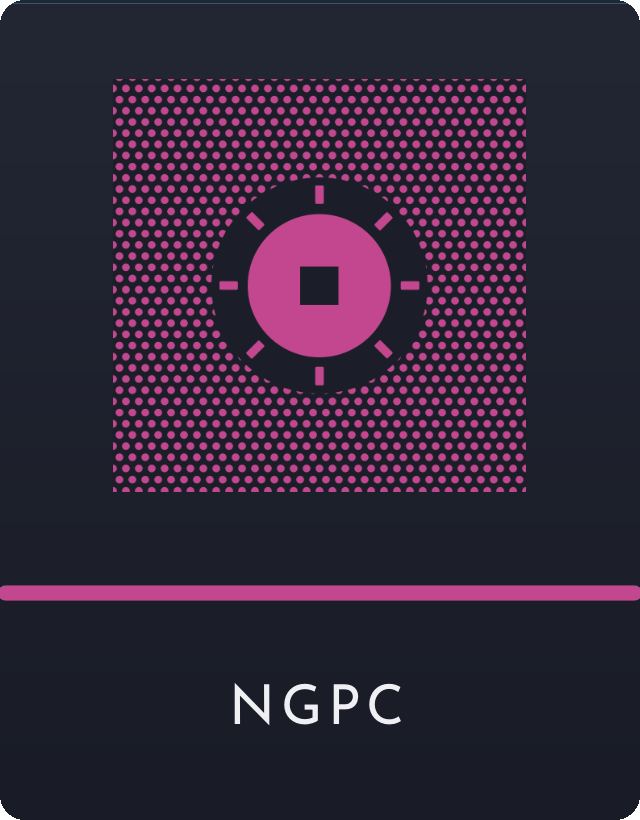
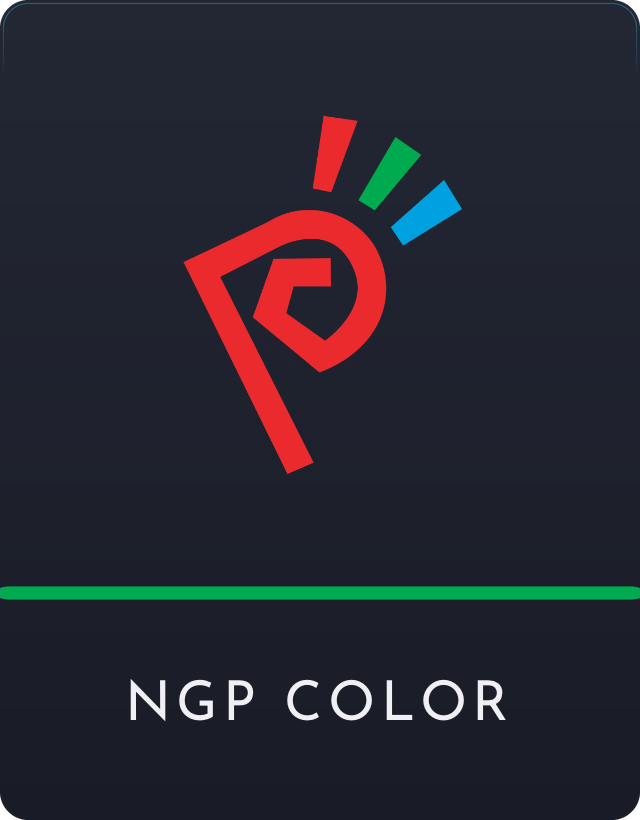
The two Neo Geo Pockets are two shelves, ordered by release date
Eleventh system, and no new core: mednafen_ngp already ran both machines. Mono
cartridges still run on Color hardware, so this is a filing decision rather than
an emulation one - and the filing is what fixes the box art. libretro keeps the
two catalogs in separate repos, so a single mixed shelf could only ever fetch
covers for half its library. Two shelves, two remotes, and the two mono carts
that had no art now have somewhere to be found.

Shelf order is US release date, which is a real rule and not the one the file
had. "Release order" hid an error: Game Boy shipped 31 Jul 1989 and Genesis 14
Aug, and this file listed Genesis first. The header now carries the dates so the
next person can check the claim instead of trusting it.

The mono Pocket never shipped in the US at all, so it sorts on its Japanese date
- Oct 1998, three weeks ahead of the Game Boy Color that killed it - and the
table marks that row (JP) so the exception is visible rather than a surprise.

NGPC's tag becomes NGPC, freeing NGP for the mono shelf. Cheap right now and
never again: tags key the display mode and the favorites list, favorites is
empty and display.cfg had no NGP line, so nothing was orphaned. It also proves
the tag comment wrong twice over - tag[8] allows seven characters, not three,
and saves and states do not hang off the tag at all. States key on the FOLDER
(main.c:377) and .srm files sit flat in Saves/ named after the ROM. README said
otherwise and now says what the code does.
[…]

diff --git a/src/main.c b/src/main.c
@@ -1609,7 +1609,7 @@ static void menu_draw(app *a, const char *heading, const menu_row *rows, int n,
 	 * this was (61,214,255), and comments in both files called them the same
 	 * color without either having been checked against the other. Unified on
 	 * this cyan on 2026-08-28, that being the direction that stays clear of the
-	 * ten system accents; the mark's old blue sat close to Genesis. */
+	 * eleven system accents; the mark's old blue sat close to Genesis. */
 	ui_glow(a->r, &panel, accent, 60, 1.5f);
 	ui_panel(a->r, &panel, MENU_RADIUS, accent);
 
@@ -1680,7 +1680,7 @@ static void menu_draw(app *a, const char *heading, const menu_row *rows, int n,
 			 * frames the panel; using it again for the cursor made the two
 			 * compete, and on a dark red system the plate read as a stain on
 			 * the row rather than a highlight under it. White is neutral
-			 * against all ten accents.
+			 * against all eleven accents.
 			 *
 			 * A flat plate, with no radial glow under it. The glow was
 			 * brightest at the row's midpoint and fell off toward both ends,

diff --git a/src/platform.c b/src/platform.c
@@ -161,7 +161,7 @@ const char *plat_coreopt(const char *tag, int i)
  * X becomes a turbo A and Y a turbo B, three frames pressed and three released.
  *
  * Per system because it is only safe where those two buttons are SPARE. Seven of
- * the ten consoles here have two face buttons; a Genesis 6-button pad and a
+ * the eleven consoles here have two face buttons; a Genesis 6-button pad and a
  * SNES pad use X and Y for real, and turbo would take them away.
  *
  * A file rather than a table in the binary because the rate is exactly the sort

diff --git a/src/artscrape.c b/src/artscrape.c
@@ -68,6 +68,7 @@ static const struct { const char *folder, *remote; } MAP[] = {
 	 * The remote is the Color repo specifically - "SNK - Neo Geo Pocket"
 	 * 404s on thumbnails.libretro.com, checked rather than assumed. */
 	{ "NGPC",             "SNK - Neo Geo Pocket Color" },
+	{ "NGP",              "SNK - Neo Geo Pocket" },
 };
 #define MAP_N ((int)(sizeof MAP / sizeof MAP[0]))
 

diff --git a/src/config.h b/src/config.h
@@ -4,7 +4,7 @@
 
 #include <stdbool.h>
 
-#define CFG_MAX_SYSTEMS 12   /* ten shipped, plus Favorites; one spare */
+#define CFG_MAX_SYSTEMS 16   /* eleven shipped, plus Favorites; 12 was exact */
 #define CFG_STR 256
 
 typedef struct {

diff --git a/README.md b/README.md
@@ -4,7 +4,7 @@
   <img src="res/readme/turtle.png" alt="" height="84">
 </p>
 
-A custom firmware for the **TrimUI Brick / Brick Hammer** that plays ten 8-
+A custom firmware for the **TrimUI Brick / Brick Hammer** that plays eleven 8-
 and 16-bit consoles.
 
 What is on screen is a row of cards, the name of the thing under the cursor,
@@ -78,6 +78,7 @@ Roms/TurboGrafx-16/           .pce .sgx .cue .ccd .chd .toc .m3u .zip
 Roms/Game Gear/               .gg .zip
 Roms/SNES/                    .sfc .smc .zip
 Roms/Game Boy Color/          .gbc .cgb .zip
+Roms/NGP/                     .ngp .ngc .ngpc .npc .zip
 Roms/NGPC/                    .ngp .ngc .ngpc .npc .zip
 Roms/Game Boy Advance/        .gba .agb .zip
 Roms/<system>/.media/<name>.png     box art, optional
@@ -192,8 +193,9 @@ screen; this is the same thing by hand, for a card written some other way.
 the button repeatedly for you instead of you mashing it. It applies to a whole
 system rather than to one game.
 
-Eight of the ten have it: **NES, Master System, TurboGrafx-16, Game Boy, Game
-Boy Color, Game Boy Advance, Game Gear and Neo Geo Pocket Color**. Those consoles had two face buttons,
+Nine of the eleven have it: **NES, Master System, TurboGrafx-16, Game Boy, Game
+Boy Color, Game Boy Advance, Game Gear, Neo Geo Pocket and Neo Geo Pocket
+Color**. Those consoles had two face buttons,
 so X and Y are spare and turbo can have them. Genesis and SNES are left out
 because their pads use X and Y for real buttons. Which systems get it, and how
 fast, is `turbo.cfg` below.
@@ -319,9 +321,11 @@ Pressing A on it does not start it, it continues it.
 - **Manual save and load**, eight slots, from the in-game menu (`MENU`).
   Silent - the device shows no in-game chrome.
 
-Saves and states are keyed on the system's **tag** (`NES`, `PCE`, `GBA`), which
-is stated outright in `systems.cfg` rather than guessed from punctuation in a
-filename, so renaming a ROM folder cannot orphan a save.
+States are keyed on the system's **`Roms/` folder**, and battery `.srm` files
+sit flat in `Saves/` named after the ROM. The **tag** in `systems.cfg` keys
+something else: the per-system display mode and the favorites list. This
+paragraph claimed for a while that saves and states hung off the tag; they do
+not, checked in the code on 2026-09-01.
 
 Cartridge battery saves are separate from all of that: a game with a battery
 gets a `.srm` beside the state. **Neo Geo Pocket Color is the exception** - its

diff --git a/THIRD-PARTY-LICENSES.md b/THIRD-PARTY-LICENSES.md
@@ -40,7 +40,7 @@ The SDL2 libraries TortOS links against are the device's own, in
 | `mgba_libretro.so` | Game Boy, Game Boy Color, Game Boy Advance | MPL-2.0 |
 | `snes9x2010_libretro.so` | SNES | **Non-commercial** |
 | `genesis_plus_gx_libretro.so` | Genesis, Master System, Game Gear | **Non-commercial** |
-| `mednafen_ngp_libretro.so` | Neo Geo Pocket / Color | GPL-2.0 (Beetle NeoPop, Mednafen-derived) |
+| `mednafen_ngp_libretro.so` | Neo Geo Pocket, Neo Geo Pocket Color | GPL-2.0 (Beetle NeoPop, Mednafen-derived) |
 
 **The last two carry a non-commercial restriction.** They are not open source
 under either the OSI or FSF definition and they restrict commercial
